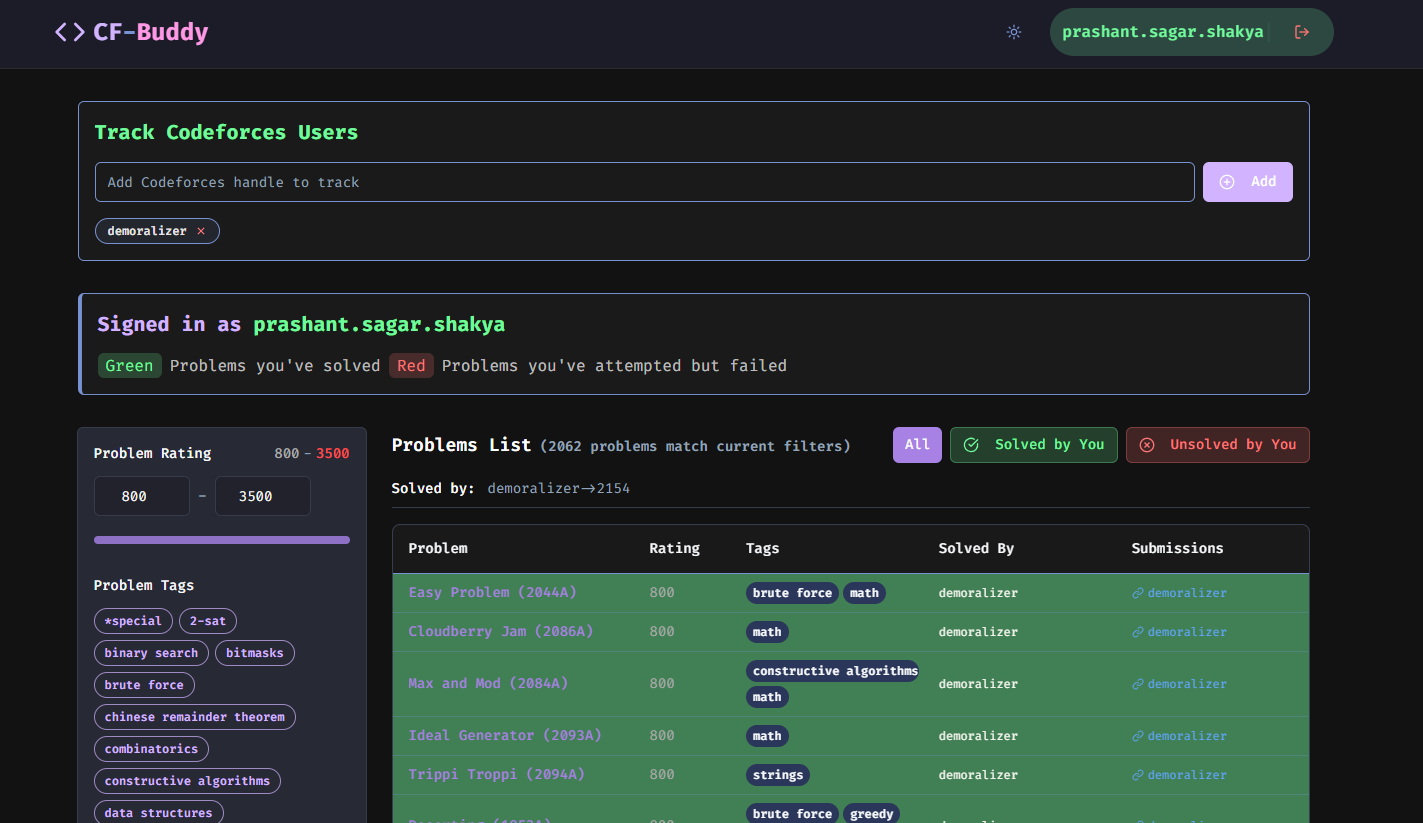
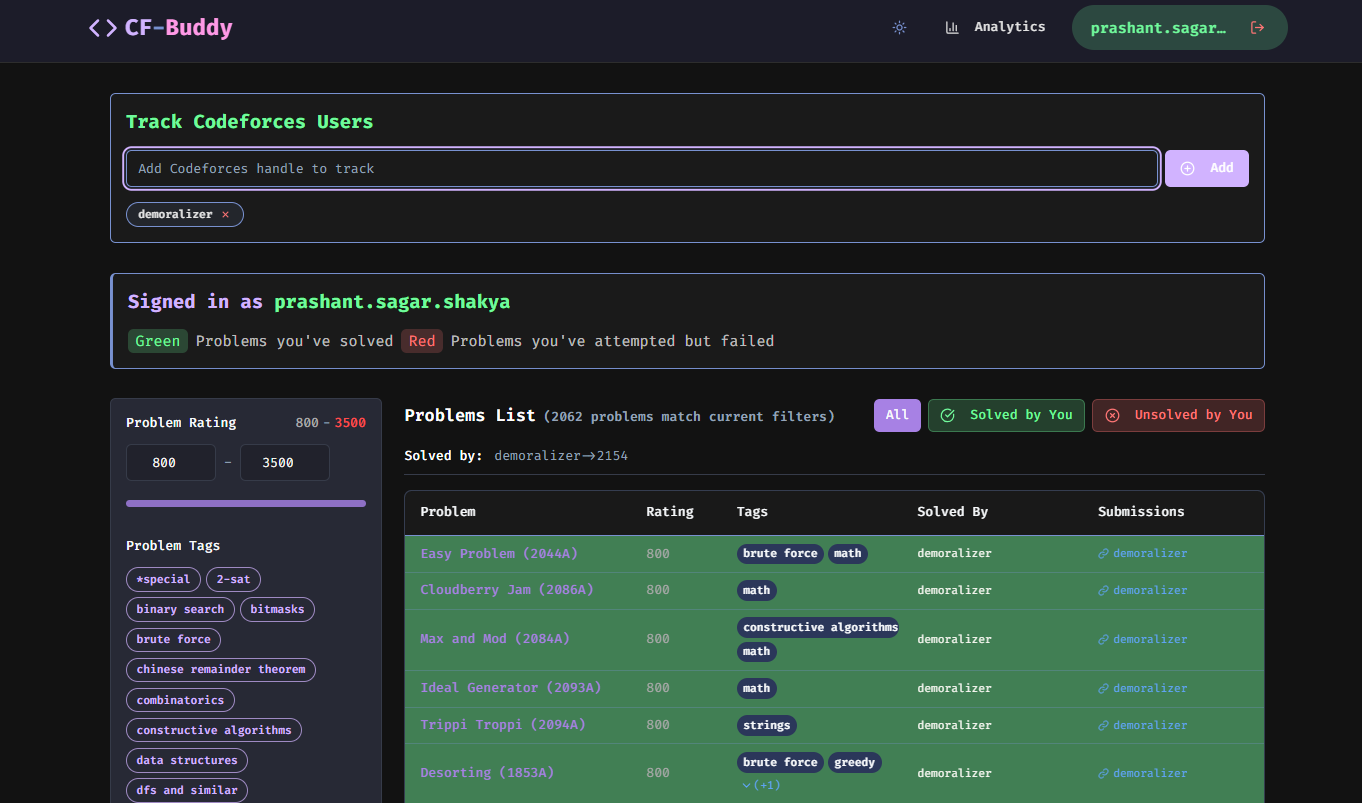
Readme Updated

diff --git a/vite.config.ts b/vite.config.ts
@@ -6,7 +6,7 @@ import { componentTagger } from "lovable-tagger";
 export default defineConfig(({ mode }) => ({
   server: {
     host: "::",
-    port: 8080,
+    port: 5173,
   },
   plugins: [
     react(),

diff --git a/README.md b/README.md
@@ -1,129 +1,169 @@
-# CF-Buddy 🚀
+# CF-Buddy 🚀 :: Analyze & Compare Codeforces Progress
 
-**CF-Buddy** is a modern web application designed to help competitive programmers track, analyze, and compare their problem-solving progress on Codeforces. Add multiple user handles, filter problems by rating and tags, and gain insights into your and your friends' Codeforces journeys!
+**CF-Buddy** is a modern web application designed for competitive programmers to track, analyze, and compare problem-solving progress on Codeforces. Add multiple user handles, filter problems by rating and tags, view consolidated lists, visualize analytics, and gain insights into your and your friends' Codeforces journeys!
 
-![Screenshot of the Application](./demo.png)
+![Screenshot of the Application](./demo.png) 
 
-## ✨ Features
+---
 
-- **Multi-User Tracking**: Add and monitor the solved problems of multiple Codeforces users.
-- **Current User Context**: Set a "current user" to highlight their solved problems or identify problems they've attempted unsuccessfully within other users' lists.
-- **Advanced Problem Filtering**:
-  - **Rating Slider**: Dynamically filter problems by a minimum and maximum rating.
-  - **Tag Selection**: Filter problems by one or more tags (e.g., "dp", "graphs", "data structures"). Tags are dynamically populated based on fetched problems.
-  - **Clear Filters**: Easily reset tag filters or all filters.
-- **Detailed Problem Lists**:
-  - View a list of solved problems for each tracked user, based on current filters.
-  - Problems are **sorted by rating** in ascending order.
-  - Information includes problem name, contest ID, index, and rating.
-  - **Visual Cues**:
-    - Problems solved by the "current user" are highlighted (e.g., green).
-    - Problems the "current user" has attempted but got incorrect submissions on are highlighted (e.g., red).
-- **Responsive Design**: User-friendly interface that works across different screen sizes.
-- **Toast Notifications**: Informative feedback for API calls and errors.
-- **Loading States**: Clear indicators when data is being fetched.
-- **Dynamic Tag Discovery**: Problem tags available for filtering are automatically discovered from users' solved problems.
+## ✨ Key Features
+
+-   **👤 Multi-User Tracking**: Add multiple Codeforces handles to monitor solved problems side-by-side.
+-   **🎯 Current User Context**: Designate a "current user" (by signing in with a handle) to:
+    -   See problems *you've solved* highlighted green in the list.
+    -   See problems *you've attempted unsuccessfully* highlighted red.
+    -   Filter the list to show only problems you *have* or *have not* solved.
+-   **📊 User Analytics Dashboard**: (Accessible via Header Button on Desktop)
+    -   **Rating History**: Visualize rating changes over time with rank color bands.
+    -   **Activity Heatmap**: See submission consistency with a GitHub-style heatmap.
+    -   **Detailed Statistics**: Track total problems solved, yearly/monthly counts, and longest solving streaks.
+    -   **Problem Difficulty Analysis**: Bar chart showing the distribution of solved problems by rating.
+    *   **Tag Analysis**: Pie/Donut chart displaying the distribution of solved problem tags.
+-   **🔍 Advanced Problem Filtering**:
+    -   **Rating Slider**: Dynamically filter problems by minimum and maximum rating.
+    -   **Tag Selection**: Filter by multiple Codeforces tags (e.g., "dp", "graphs", "data structures"). Tags are automatically populated based on the added users' solved problems.
+-   **📋 Consolidated Problem List**:
+    -   View problems solved by *any* of the tracked users (matching filters), excluding duplicates.
+    -   Clearly see *who* solved each problem (excluding the current signed-in user from this list).
+    -   Link to others' submissions (where available).
+    -   Sort problems easily by rating.
+-   **🌐 Language Localization**: Problem names and some contest details are displayed based on your browser's preferred language setting (supports English and Russian via Codeforces API).
+-   **🎨 Dark/Light Mode**: Toggle between themes for comfortable viewing.
+-   **📱 Responsive Design**: Adapts gracefully to different screen sizes (desktop, tablet, mobile).
+-   **💬 Toast Notifications**: User-friendly feedback for actions like adding users, sign-in, and API errors.
+-   **⏳ Loading States**: Clear visual indicators while data is being fetched.
+
+---
 
 ## 🛠 Tech Stack
 
-- **Frontend**:
-  - [React](https://reactjs.org/) - A JavaScript library for building user interfaces.
-  - [TypeScript](https://www.typescriptlang.org/) - Superset of JavaScript for strong typing.
-  - [Vite](https://vitejs.dev/) (Assumed, common for modern React projects) - Next-generation frontend tooling.
-- **Styling**:
-  - [Tailwind CSS](https://tailwindcss.com/) - A utility-first CSS framework.
-  - [Shadcn/UI](https://ui.shadcn.com/) - Beautifully designed components that you can copy and paste into your apps.
-  - [Lucide React](https://lucide.dev/) - Simply beautiful open-source icons.
-- **State Management**:
-  - React Context API (`UserContext`)
-- **API**:
-  - [Codeforces API](https://codeforces.com/apiHelp) - For fetching user submissions and problem data.
-- **Utilities**:
-  - `use-toast` (from Shadcn/UI) for notifications.
+-   **Core**:
+    -   [React](https://reactjs.org/) (v18+) - UI Library
+    -   [TypeScript](https://www.typescriptlang.org/) - Static Typing
+    -   [Vite](https://vitejs.dev/) - Build Tool & Dev Server
+    -   [React Router DOM](https://reactrouter.com/) - Client-side Routing
+-   **UI & Styling**:
+    -   [Tailwind CSS](https://tailwindcss.com/) - Utility-First CSS Framework
+    -   [Shadcn/UI](https://ui.shadcn.com/) - Accessible & Reusable Component Primitives
+    -   [Lucide React](https://lucide.dev/) - Icon Library
+-   **Charting & Visualization**:
+    -   [Recharts](https://recharts.org/) - Composable Charting Library
+    -   [date-fns](https://date-fns.org/) - Modern Date Utility Library
+    -   (Optional: `react-calendar-heatmap`, `react-tooltip`)
+-   **State Management**:
+    -   React Context API (`UserContext`, `ThemeContext`)
+-   **Data Fetching & API**:
+    -   Browser `fetch` API
+    -   [Codeforces API](https://codeforces.com/apiHelp)
+-   **(Development)**
+    -   ESLint / Prettier (Assumed for code quality)
+
+---
 
 ## 📋 Prerequisites
 
-- [Node.js](https://nodejs.org/) (LTS version recommended, e.g., v18.x or v20.x)
-- [npm](https://www.npmjs.com/) or [yarn](https://classic.yarnpkg.com/)
+-   [Node.js](https://nodejs.org/) - LTS version (v18.x or v20.x recommended)
+-   [npm](https://www.npmjs.com/) (v9+) or [yarn](https://classic.yarnpkg.com/) (v1.22+)
+
+---
 
 ## 🚀 Getting Started
 
-Follow these steps to get a local copy up and running:
+Get your local copy up and running in a few steps:
 
 1.  **Clone the repository:**
-
     ```bash
-    https://github.com/prashant-sagar-shakya/CF-Buddy.git
+    git clone https://github.com/prashant-sagar-shakya/CF-Buddy.git
     cd CF-Buddy
     ```
 
 2.  **Install dependencies:**
-    Using npm:
-
-    ```bash
-    npm install
-    ```
-
-    Or using yarn:
-
-    ```bash
-    yarn install
-    ```
+    *   Using npm:
+        ```bash
+        npm install
+        ```
+    *   Or using yarn:
+        ```bash
+        yarn install
+        ```
 
 3.  **Run the development server:**
-    Using npm:
-    ```bash
-    npm run dev
-    ```
-    Or using yarn:
-    ```bash
-    yarn dev
-    ```
-    This will typically start the application on `http://localhost:5173` (or another port if specified by Vite).
+    *   Using npm:
+        ```bash
+        npm run dev
+        ```
+    *   Or using yarn:
+        ```bash
+        yarn dev
+        ```
 
-## 🎈 Usage
+4.  **Open your browser:** Navigate to `http://localhost:5173` (or the port specified in your console output).
 
-1.  **Add Codeforces Handles**: Enter one or more Codeforces handles in the designated input area.
-2.  **Set Current User (Optional)**: Select one of the added handles as the "current user" via the User Context provider (how this is implemented in UI would be detailed here - e.g., a dropdown or a settings panel).
-3.  **Apply Filters**:
-    - Adjust the **Rating Slider** to define a difficulty range.
-    - Click on **Tags** to include or exclude problems with specific topics.
-4.  **View Problem Lists**: The application will display tables of solved problems for each user (excluding the current user's separate table, as their status is shown on others' lists).
-    - Observe color highlights for problems solved or attempted by the current user.
-    - Click problem names to navigate to the problem page on Codeforces.
+---
 
-## 🧪 Running Tests (If Applicable)
+## 🎈 Usage Guide
+
+1.  **Launch:** Start the application using the steps above.
+2.  **Add Handles:** Use the input field (likely near the top) to add one or more Codeforces handles you want to track.
+3.  **Sign In (Set Current User):** Click the "Sign In" button in the header and enter *your* Codeforces handle. This handle will be used as the reference point for highlighting solved/attempted problems.
+4.  **Filter Problems:**
+    *   Use the **Rating Slider** to select a difficulty range.
+    *   Click on **Tags** in the filter section to narrow down problems by topic. Available tags update based on the problems fetched for the added handles.
+5.  **View Problem List:** The main area will display a consolidated list of problems solved by the added handles (matching your filters), sorted by rating.
+    *   Observe the green/red highlights indicating your (current user's) status on those problems.
+    *   See which *other* users solved each problem and link to their submissions.
+6.  **Explore Analytics:**
+    *   Click the **Analytics** button (📊 icon, visible on desktop in the header).
+    *   Analyze rating trends, submission activity, rating/tag distributions for the signed-in user (or navigate to `/analytics/<handle>` manually if needed).
+7.  **Toggle Theme:** Use the Sun/Moon icon in the header to switch between light and dark modes.
+
+---
+
+## 🧪 Running Tests
+
+*(This section is a placeholder. Update if you add tests.)*
 
 ```bash
-npm test
+# Example using Vitest (if configured)
+npm run test
 # or
 yarn test
 ```
 
-_(Add more details if you have specific test suites or configurations)_
+Provide details on the testing framework used (e.g., Vitest, Jest, React Testing Library) and any specific setup required.
+
+---
 
 ## 🤝 Contributing
 
-Contributions are what make the open-source community such an amazing place to learn, inspire, and create. Any contributions you make are **greatly appreciated**!
+Contributions make the open-source community great! Any contributions are **welcome and greatly appreciated**.
 
-If you have a suggestion that would make this better, please fork the repo and create a pull request. You can also simply open an issue with the tag "enhancement".
-Don't forget to give the project a star! Thanks again!
+If you have improvements or features in mind:
 
-1.  **Fork the Project**
-2.  **Create your Feature Branch** (`git checkout -b feature/AmazingFeature`)
-3.  **Commit your Changes** (`git commit -m 'Add some AmazingFeature'`)
-4.  **Ensure code quality** (e.g., `npm run lint` or `yarn lint` if linters are set up)
-5.  **Push to the Branch** (`git push origin feature/AmazingFeature`)
-6.  **Open a Pull Request**
+1.  **Check for existing issues:** Look for related discussions or tasks.
+2.  **Fork the Project:** Create your own copy.
+3.  **Create a Feature Branch:** (`git checkout -b feature/YourAmazingFeature`)
+4.  **Make your changes:** Implement your feature or bug fix.
+5.  **Commit your Changes:** (`git commit -m 'feat: Add some AmazingFeature'`) - Follow Conventional Commits if possible.
+6.  **Ensure Code Quality:** Run linters/formatters if set up (`npm run lint` / `yarn lint`).
+7.  **Push to the Branch:** (`git push origin feature/YourAmazingFeature`)
+8.  **Open a Pull Request:** Describe your changes clearly.
 
-Please ensure your PR describes the problem and solution. Include screenshots if applicable.
+You can also open an issue with the tag "enhancement" or "bug" if you find problems or have ideas. Thank you! ⭐
+
+---
 
 ## 📜 License
 
-Distributed under the MIT License. See `LICENSE` file for more information.
+Distributed under the MIT License. See `LICENSE.md` for more information.
+
+---
 
 ## 🙏 Acknowledgements
 
-- [Codeforces API](https://codeforces.com/apiHelp) for providing the data.
-- [Shadcn/UI](https://ui.shadcn.com/) for the beautiful components.
-- [Lucide Icons](https://lucide.dev/) for the icons.
+*   **Codeforces:** For their fantastic platform and public API.
+*   **Shadcn/UI:** For the elegant component library structure.
+*   **Recharts:** For the charting capabilities.
+*   **Lucide React:** For the clean icons.
+*   **Vite Team:** For the blazing fast development experience.
+*   **Tailwind Labs:** For the utility-first CSS framework.
